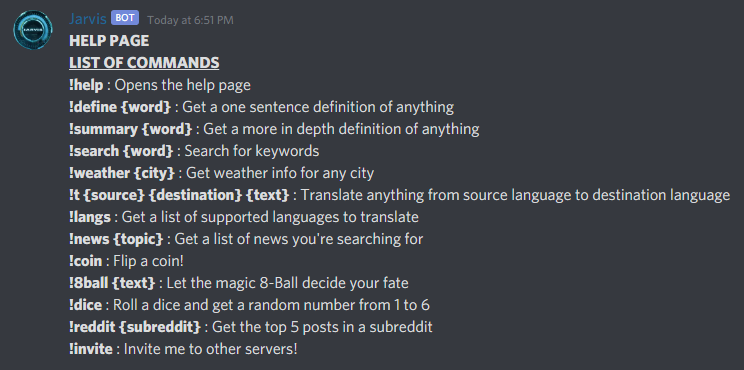
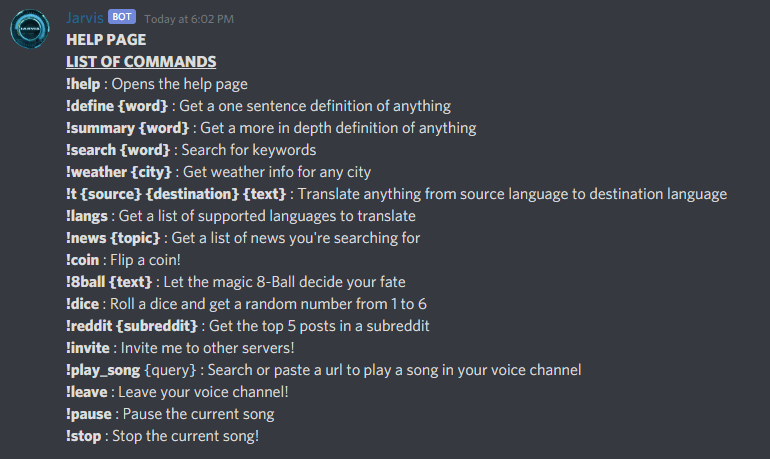
music implementation

Changed region(s): [[0.0, 0.0, 0.9892, 0.9811]]

diff --git a/bot.py b/bot.py
@@ -1,9 +1,13 @@
 # bot.py
 
 import os
+from youtube_dl import YoutubeDL
 import random
 from Parse import parseForTrans
+from discord.utils import get
+from requests import get
 import discord
+from discord.ext import commands,tasks
 import praw
 import requests
 import json
@@ -25,7 +29,6 @@ base_url = "http://api.openweathermap.org/data/2.5/weather?"
 base_news_url =  "https://newsapi.org/v2/top-headlines?language=en&q="
 newsapi = NewsApiClient(api_key=ss.newskey)
 
-client = discord.Client()
 
 reddit = praw.Reddit(client_id=ss.redditid,
                      client_secret=ss.redditsecret,
@@ -33,23 +36,116 @@ reddit = praw.Reddit(client_id=ss.redditid,
                      user_agent=ss.useragent,
                      username=ss.redditusername)
 
+intents = discord.Intents().all()
+client = discord.Client(intents=intents)
+bot = commands.Bot(command_prefix='!',intents=intents)
+bot.remove_command('help')
+
+ytdl_format_options = {
+    'format': 'bestaudio/best',
+    'restrictfilenames': True,
+    'noplaylist': True,
+    'nocheckcertificate': True,
+    'ignoreerrors': False,
+    'logtostderr': False,
+    'quiet': True,
+    'no_warnings': True,
+    'default_search': 'auto',
+    'source_address': '0.0.0.0' # bind to ipv4 since ipv6 addresses cause issues sometimes
+}
+
+ffmpeg_options = {
+    'options': '-vn'
+}
+
+
 def jokes(f):
     
     data = requests.get(f)
     tt = json.loads(data.text)
     return tt
 
-@client.event
+@bot.event
 async def on_ready():
     game = discord.Game("!help")
-    await client.change_presence(activity=game)
-    for guild in client.guilds:
+    await bot.change_presence(activity=game)
+    for guild in bot.guilds:
         print(f'{client.user} is connected to the following guild:\n{guild.name}(id: {guild.id})\n')
         if guild.name == GUILD:
             break
 
     members = '\n - '.join([member.name for member in guild.members])
     print(f'Guild Members:\n - {members}')
+
+##################### M U S I C #######################
+
+async def join(ctx):
+    if not ctx.message.author.voice:
+        await ctx.send("{} is not connected to a voice channel".format(ctx.message.author.name))
+        return
+    else:
+        channel = ctx.message.author.voice.channel
+    await channel.connect()
+
+@bot.command(name='leave')
+async def leave(ctx):
+    voice_client = ctx.message.guild.voice_client
+    if voice_client.is_connected():
+        await voice_client.disconnect()
+    else:
+        await ctx.send("The bot is not connected to a voice channel.")
+
+def search(query):
+    with YoutubeDL({'format': 'bestaudio', 'noplaylist':'True'}) as ydl:
+        try: requests.get(query)
+        except: info = ydl.extract_info(f"ytsearch:{query}", download=False)['entries'][0]
+        else: info = ydl.extract_info(query, download=False)
+    return (info, info['formats'][0]['url'])
+
+@bot.command(name='play_song')
+async def play(ctx, *, query):
+    await join(ctx)
+    #Solves a problem I'll explain later
+    FFMPEG_OPTS = {'before_options': '-reconnect 1 -reconnect_streamed 1 -reconnect_delay_max 5', 'options': '-vn'}
+
+    video, source = search(query)
+    server = ctx.message.guild
+    voice = server.voice_client
+    title = video['title']
+
+    #await join(ctx)
+    await ctx.send(f'Now playing ' + title)
+
+    voice.play(discord.FFmpegPCMAudio(source, **FFMPEG_OPTS), after=lambda e: print('done', e))
+    voice.is_playing()
+
+
+@bot.command(name='pause')
+async def pause(ctx):
+    voice_client = ctx.message.guild.voice_client
+    if voice_client.is_playing():
+        await voice_client.pause()
+        await ctx.send("Paused.")
+    else:
+        await ctx.send("The bot is not playing anything at the moment.")
+    
+@bot.command(name='resume')
+async def resume(ctx):
+    voice_client = ctx.message.guild.voice_client
+    if voice_client.is_paused():
+        await voice_client.resume()
+        await ctx.send("Resuming.")
+    else:
+        await ctx.send("The bot was not playing anything before this. Use play_song command")
+
+@bot.command(name='stop')
+async def stop(ctx):
+    voice_client = ctx.message.guild.voice_client
+    if voice_client.is_playing():
+        await voice_client.stop()
+        await ctx.send("Stopped.")
+    else:
+        await ctx.send("The bot is not playing anything at the moment.")
 
     #################### W I K I P E D I A ######################
 
@@ -150,7 +246,7 @@ async def on_message(message):
         except discord.errors.HTTPException:
             return
 
-        
+
     ###################### R E D D I T ########################
 
     if message.content.startswith('!reddit'):
@@ -402,25 +498,30 @@ async def on_message(message):
 
     #################### H E L P ######################
 
-    if message.content.startswith('!help'):
-        words = message.content
-        line1 = '**HELP PAGE\n'
-        line2 = '__LIST OF COMMANDS__**\n'
-        line3 = '**!help** : Opens the help page\n'
-        line4 = '**!define {word}** : Get a one sentence definition of anything\n'
-        line5 = '**!summary {word}** : Get a more in depth definition of anything\n'
-        line6 = '**!search {word}** : Search for keywords\n'
-        line7 = '**!weather {city}** : Get weather info for any city\n'
-        line8 = '**!t {source} {destination} {text}** : Translate anything from source language to destination language\n'
-        line9 = '**!langs** : Get a list of supported languages to translate\n'
-        line10 = '**!news {topic}** : Get a list of news you\'re searching for\n'
-        line11 = '**!coin** : Flip a coin!\n'
-        line12 = '**!8ball {text}** : Let the magic 8-Ball decide your fate\n'
-        line13 = '**!dice** : Roll a dice and get a random number from 1 to 6\n'
-        line14 = '**!reddit {subreddit}** : Get the top 5 posts in a subreddit\n'
-        line15 = '**!invite** : Invite me to other servers!\n'
-        helptext = line1+line2+line3+line4+line5+line6+line7+line8+line9+line10+line11+line12+line13+line14+line15
-        await message.channel.send(helptext)
+@bot.command(name='help')
+async def help(ctx):
+    line1 = '**HELP PAGE\n'
+    line2 = '__LIST OF COMMANDS__**\n'
+    line3 = '**!help** : Opens the help page\n'
+    line4 = '**!define {word}** : Get a one sentence definition of anything\n'
+    line5 = '**!summary {word}** : Get a more in depth definition of anything\n'
+    line6 = '**!search {word}** : Search for keywords\n'
+    line7 = '**!weather {city}** : Get weather info for any city\n'
+    line8 = '**!t {source} {destination} {text}** : Translate anything from source language to destination language\n'
+    line9 = '**!langs** : Get a list of supported languages to translate\n'
+    line10 = '**!news {topic}** : Get a list of news you\'re searching for\n'
+    line11 = '**!coin** : Flip a coin!\n'
+    line12 = '**!8ball {text}** : Let the magic 8-Ball decide your fate\n'
+    line13 = '**!dice** : Roll a dice and get a random number from 1 to 6\n'
+    line14 = '**!reddit {subreddit}** : Get the top 5 posts in a subreddit\n'
+    line15 = '**!invite** : Invite me to other servers!\n'
+    line16 = '**!play_song {query}** : Search or paste a url to play a song in your voice channel\n'
+    line17 = '**!leave** : Leave your voice channel\n'
+    line18 = '**!pause** : Pause the current song\n'
+    line19 = '**!stop** : Stop the current song\n'
+
+    helptext = line1+line2+line3+line4+line5+line6+line7+line8+line9+line10+line11+line12+line13+line14+line15+line16+line17+line18+line19
+    await ctx.send(helptext)
 
     #################### T R A N S L A T E ######################
 
@@ -473,4 +574,6 @@ async def pages(ctx):
             break
             # ending the loop if user doesn't react after x seconds
 
-client.run(TOKEN)
+
+
+bot.run(TOKEN)
